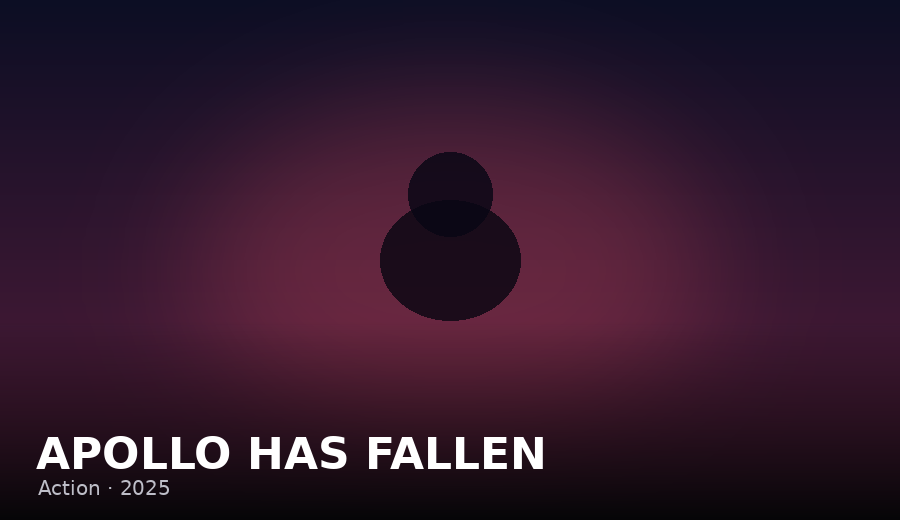
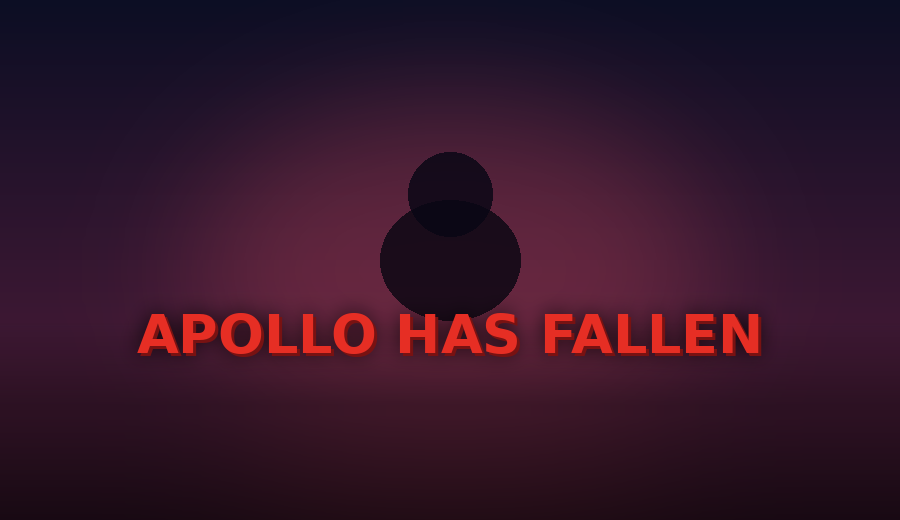
Home: big key-art titles on hero art, Featured row under hero with the hero movies' poster/name/year/download (in-FlatList overlay never rendered on Android)

Changed region(s): [[0.1556, 0.5846, 0.8711, 0.7077], [0.0311, 0.8308, 0.6222, 0.9538], [0.3111, 0.9538, 0.6844, 1.0]]

diff --git a/src/screens/HomeScreen.tsx b/src/screens/HomeScreen.tsx
@@ -69,6 +69,10 @@ function Section({ heading, data }: { heading: string; data: Title[] }) {
 }
 
 export default function HomeScreen() {
+  const heroCards: Title[] = heroBanners.map(h => {
+    const [genre, year] = h.meta.split(' | ');
+    return { id: h.id, title: h.title, year, genre, poster: h.image };
+  });
   const nav = useNavigation<any>();
   const { width } = useWindowDimensions();
   const insets = useSafeAreaInsets();
@@ -108,10 +112,6 @@ export default function HomeScreen() {
             renderItem={({ item }) => (
               <View style={{ width, height: heroH }}>
                 <Image source={item.image} style={{ width, height: heroH }} resizeMode="cover" />
-                <View style={styles.heroText}>
-                  <Text style={styles.heroTitle}>{item.title}</Text>
-                  <Text style={styles.heroMeta}>{item.meta}</Text>
-                </View>
               </View>
             )}
           />
@@ -133,6 +133,7 @@ export default function HomeScreen() {
         </View>
 
         <View style={{ marginTop: -50 }}>
+          <Section heading="Featured" data={heroCards} />
           <Section heading="Trending Now" data={titles.slice(0, 8)} />
           <Section heading="Popular Movies" data={titles.slice(4, 12)} />
           <Section heading="New Releases" data={[...titles].reverse().slice(0, 8)} />
@@ -183,9 +184,6 @@ const styles = StyleSheet.create({
   tab: { color: '#a9adc2', fontSize: 17, fontWeight: '500', paddingVertical: 6 },
   tabOn: { color: '#fff', fontWeight: '800' },
   tabLine: { height: 3, borderRadius: 2, marginTop: -1 },
-  heroText: { position: 'absolute', left: 20, bottom: 70 },
-  heroTitle: { color: '#fff', fontSize: 30, fontWeight: '900', letterSpacing: -0.5, textShadowColor: 'rgba(0,0,0,0.6)', textShadowRadius: 8 },
-  heroMeta: { color: '#d4d7e6', fontSize: 14, marginTop: 4 },
   dots: { position: 'absolute', bottom: 66, alignSelf: 'center', flexDirection: 'row' },
   dot: { width: 6, height: 6, borderRadius: 3, backgroundColor: 'rgba(255,255,255,0.35)', marginHorizontal: 3 },
   dotOn: { width: 18, backgroundColor: '#00D2FF' },

diff --git a/README.md b/README.md
@@ -32,7 +32,7 @@ StreamFlix is a full-featured streaming app built with React Native. It delivers
 - Remember me and forgot-password flows
 
 ### Discovery
-- Home screen with auto-rotating hero banners
+- Home screen with auto-rotating full-bleed hero banners with baked key-art titles, a Featured card row for the hero titles (poster, name, year, download button), then Trending, Popular and New Releases
 - Rotating search pill with trending placeholders and gradient "Search" text; the far-right slot is reserved for future ad placements
 - Category tabs: Football, Trending, Movie, Nollywood
 - Horizontal title rows with one-tap download buttons
